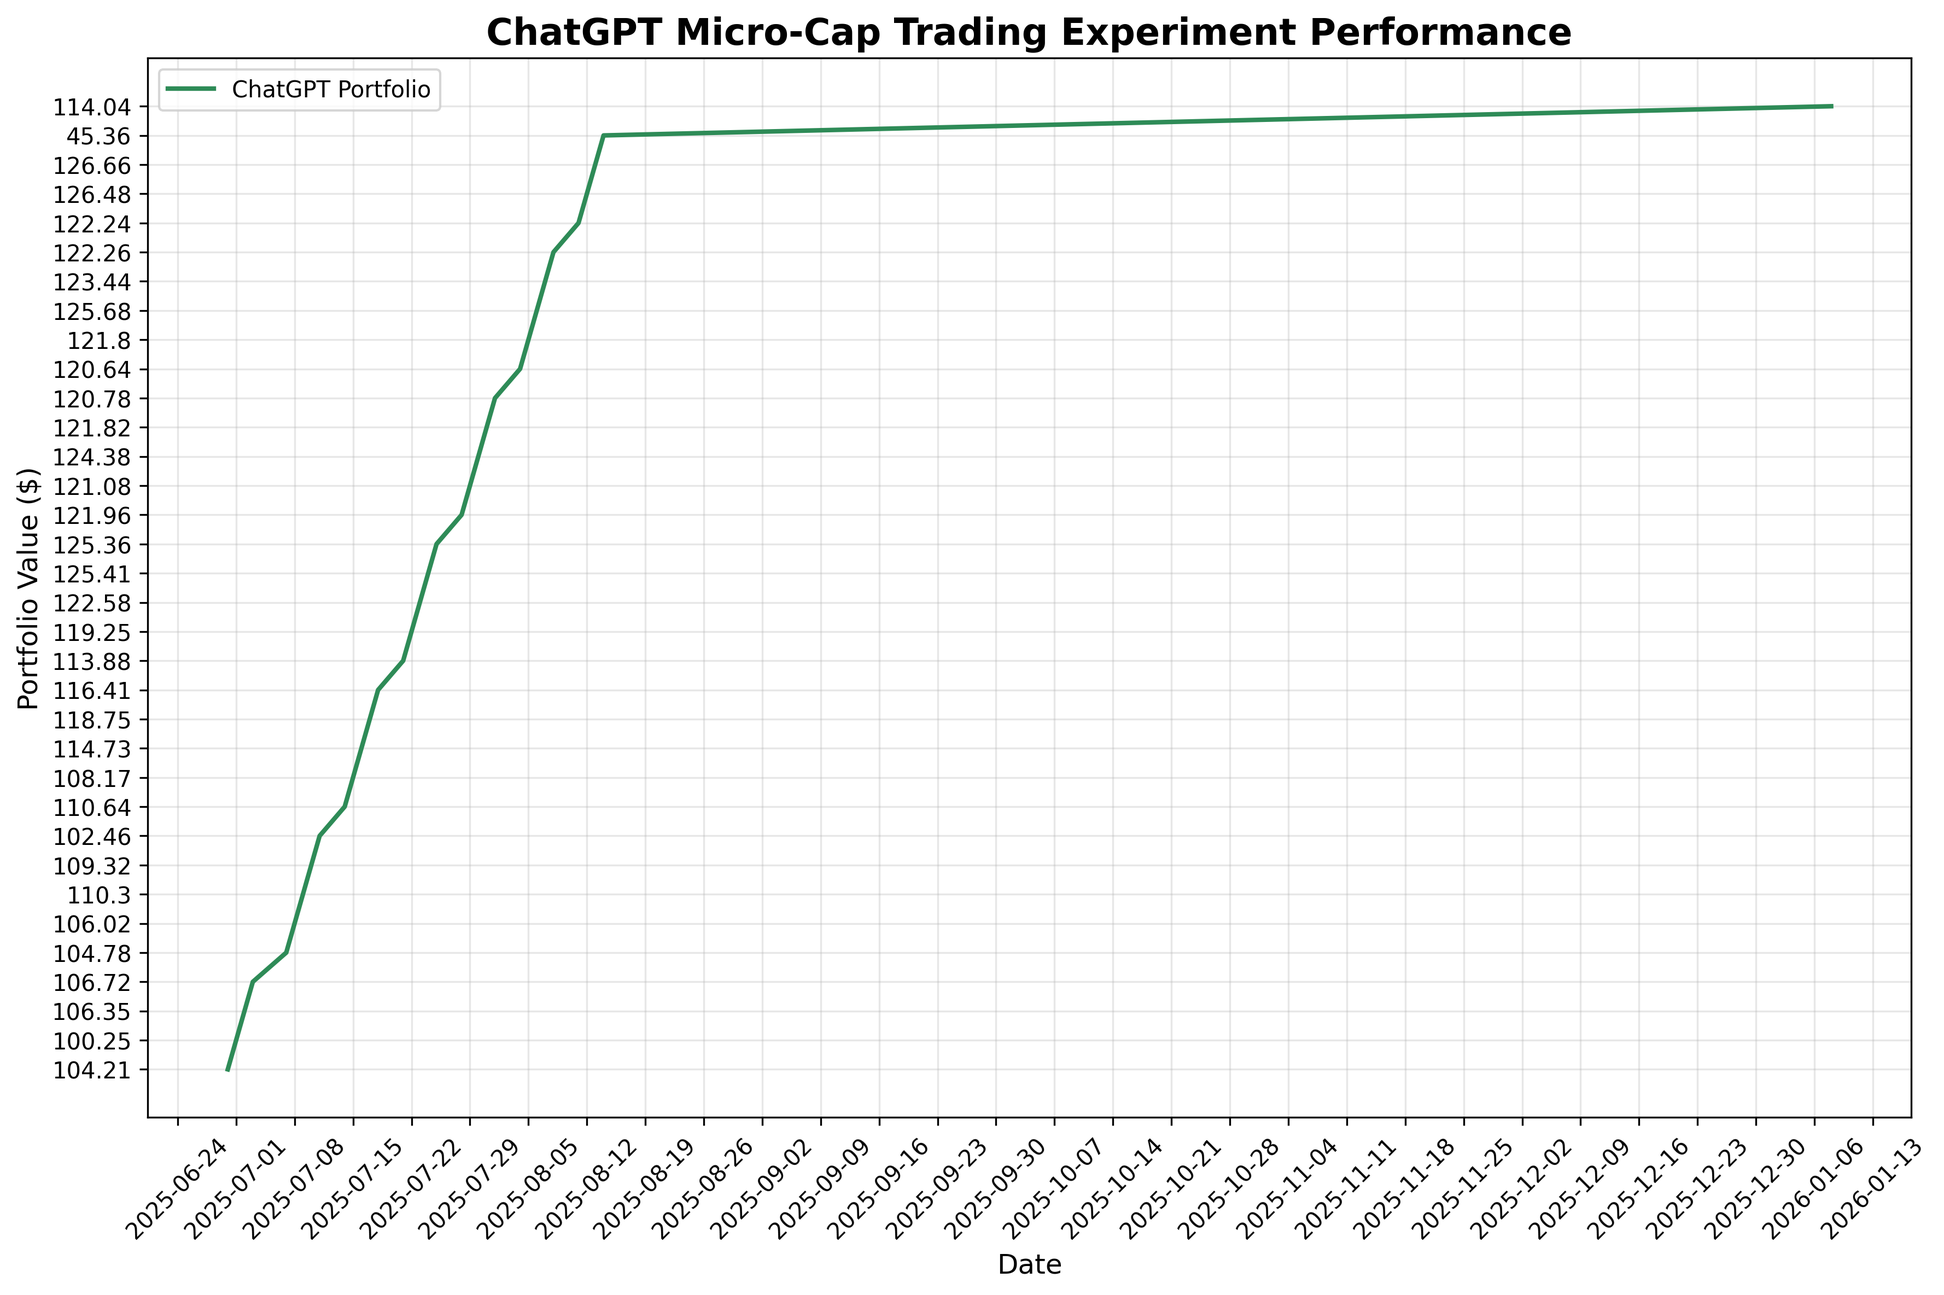
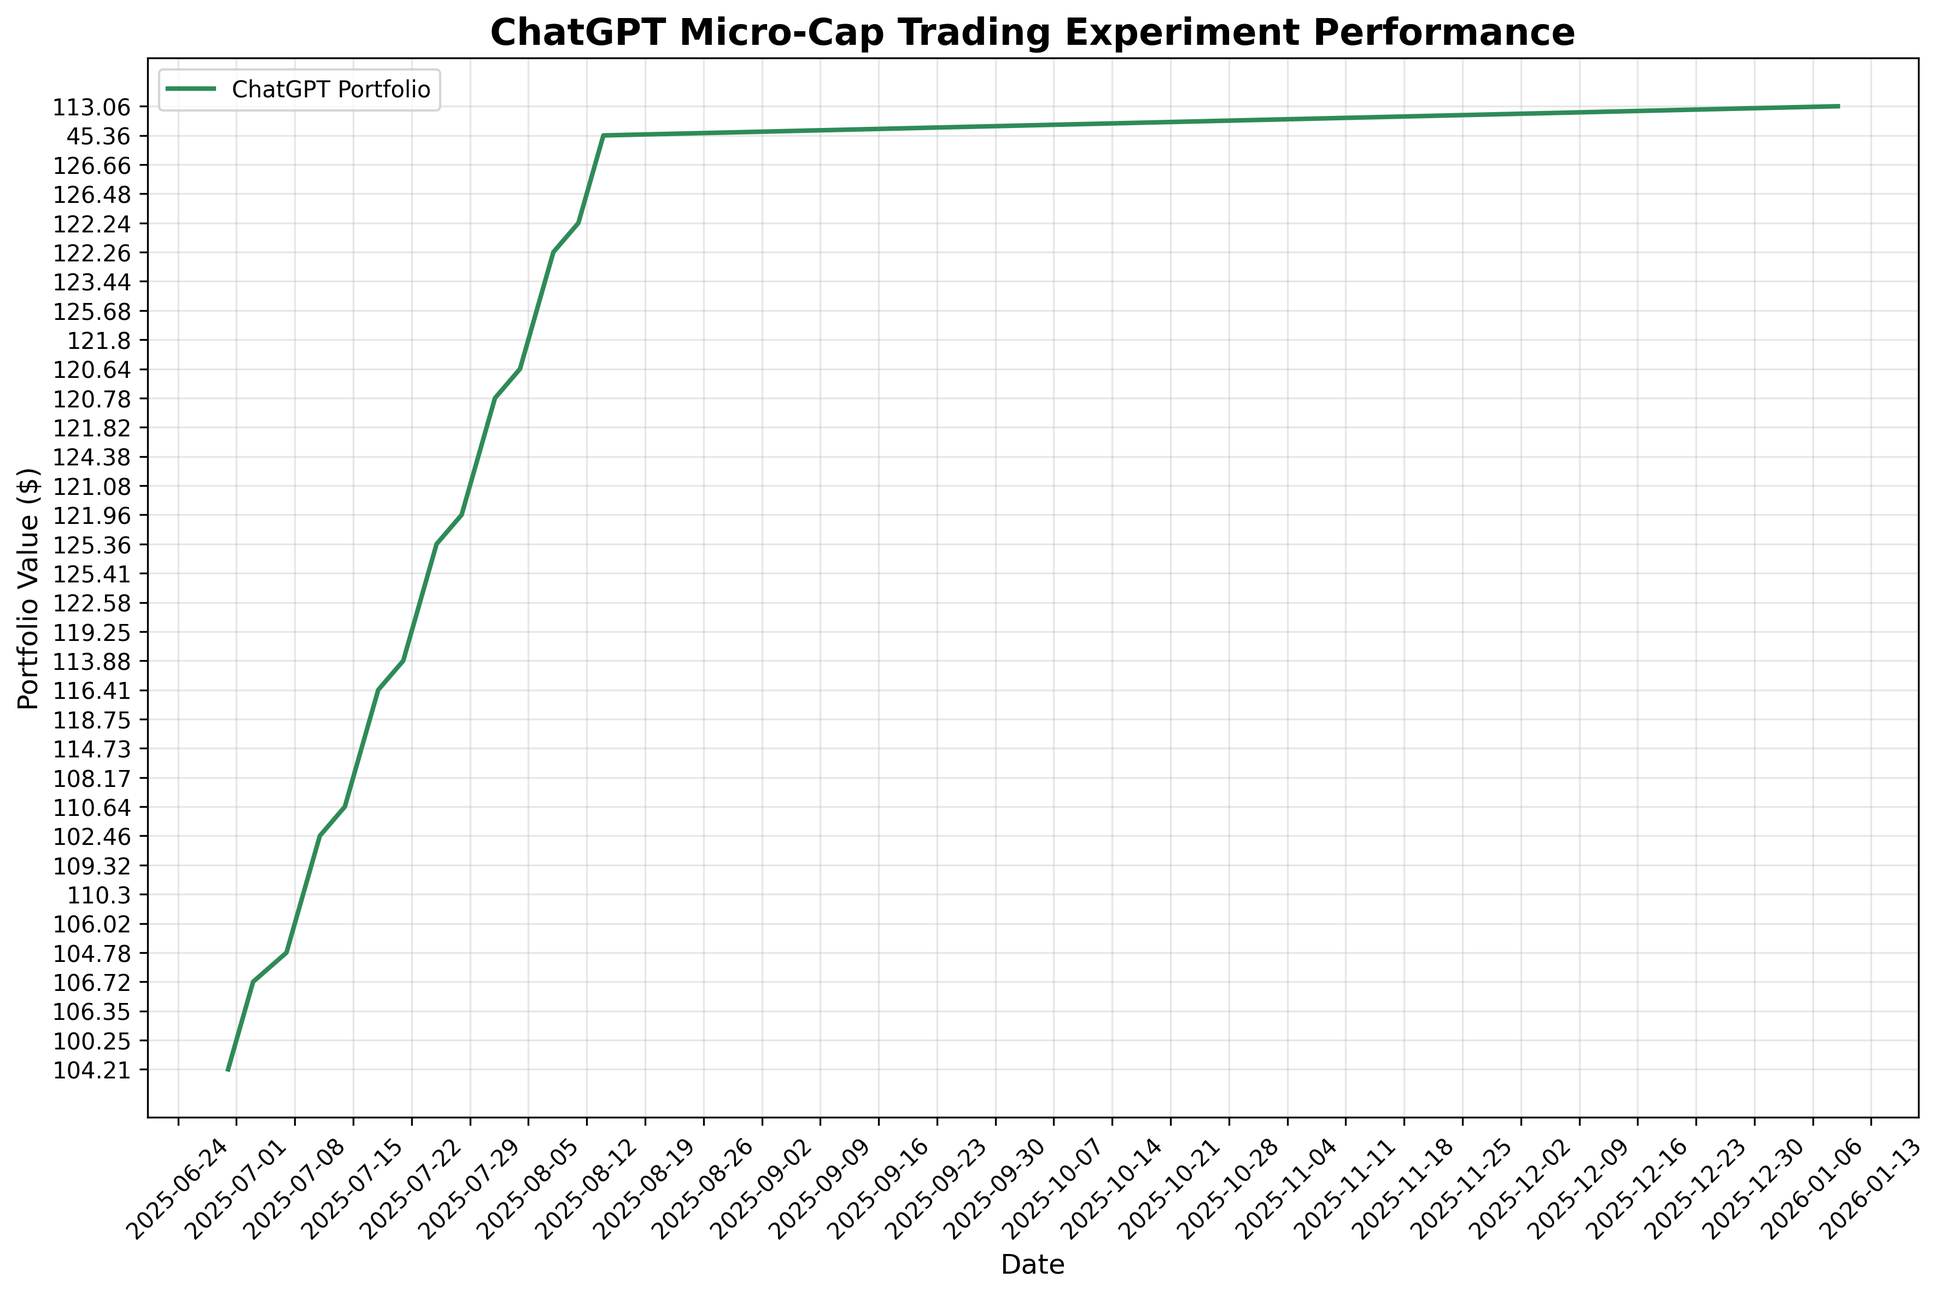
deploy: e15cad030d70fb3fbb51f9df6e22fa70c2f175c0

diff --git a/index.html b/index.html
@@ -105,7 +105,7 @@
                 <div class="stat-label">Total Trades</div>
             </div>
             <div class="stat-card">
-                <div class="stat-value" id="last-updated">2026-01-08</div>
+                <div class="stat-value" id="last-updated">2026-01-09</div>
                 <div class="stat-label">Last Updated</div>
             </div>
         </div>
@@ -160,7 +160,7 @@
     
     <script>
         // Portfolio data
-        const portfolioData = JSON.parse("[{&quot;Date&quot;: &quot;2025-08-11&quot;, &quot;Ticker&quot;: &quot;ABEO&quot;, &quot;Shares&quot;: 4.0, &quot;Buy Price&quot;: 5.77, &quot;Cost Basis&quot;: 23.08, &quot;Stop Loss&quot;: 4.9, &quot;Current Price&quot;: 6.28, &quot;Total Value&quot;: 25.12, &quot;PnL&quot;: 2.04, &quot;Action&quot;: &quot;HOLD&quot;, &quot;Cash Balance&quot;: NaN, &quot;Total Equity&quot;: NaN}, {&quot;Date&quot;: &quot;2025-08-11&quot;, &quot;Ticker&quot;: &quot;ACTU&quot;, &quot;Shares&quot;: 6.0, &quot;Buy Price&quot;: 5.75, &quot;Cost Basis&quot;: 34.5, &quot;Stop Loss&quot;: 4.89, &quot;Current Price&quot;: 8.01, &quot;Total Value&quot;: 48.06, &quot;PnL&quot;: 13.56, &quot;Action&quot;: &quot;HOLD&quot;, &quot;Cash Balance&quot;: NaN, &quot;Total Equity&quot;: NaN}, {&quot;Date&quot;: &quot;2025-08-11&quot;, &quot;Ticker&quot;: &quot;ESPR&quot;, &quot;Shares&quot;: 2.0, &quot;Buy Price&quot;: 1.91, &quot;Cost Basis&quot;: 3.82, &quot;Stop Loss&quot;: 1.6, &quot;Current Price&quot;: 1.85, &quot;Total Value&quot;: 3.7, &quot;PnL&quot;: -0.12, &quot;Action&quot;: &quot;HOLD&quot;, &quot;Cash Balance&quot;: NaN, &quot;Total Equity&quot;: NaN}, {&quot;Date&quot;: &quot;2025-08-11&quot;, &quot;Ticker&quot;: &quot;TOTAL&quot;, &quot;Shares&quot;: NaN, &quot;Buy Price&quot;: NaN, &quot;Cost Basis&quot;: NaN, &quot;Stop Loss&quot;: NaN, &quot;Current Price&quot;: NaN, &quot;Total Value&quot;: 76.88, &quot;PnL&quot;: 15.48, &quot;Action&quot;: NaN, &quot;Cash Balance&quot;: 45.36, &quot;Total Equity&quot;: &quot;122.24&quot;}, {&quot;Date&quot;: &quot;2025-08-12&quot;, &quot;Ticker&quot;: &quot;ABEO&quot;, &quot;Shares&quot;: 4.0, &quot;Buy Price&quot;: 5.77, &quot;Cost Basis&quot;: 23.08, &quot;Stop Loss&quot;: 4.9, &quot;Current Price&quot;: 6.38, &quot;Total Value&quot;: 25.52, &quot;PnL&quot;: 2.44, &quot;Action&quot;: &quot;HOLD&quot;, &quot;Cash Balance&quot;: NaN, &quot;Total Equity&quot;: NaN}, {&quot;Date&quot;: &quot;2025-08-12&quot;, &quot;Ticker&quot;: &quot;ACTU&quot;, &quot;Shares&quot;: 6.0, &quot;Buy Price&quot;: 5.75, &quot;Cost Basis&quot;: 34.5, &quot;Stop Loss&quot;: 4.89, &quot;Current Price&quot;: 8.67, &quot;Total Value&quot;: 52.02, &quot;PnL&quot;: 17.52, &quot;Action&quot;: &quot;HOLD&quot;, &quot;Cash Balance&quot;: NaN, &quot;Total Equity&quot;: NaN}, {&quot;Date&quot;: &quot;2025-08-12&quot;, &quot;Ticker&quot;: &quot;ESPR&quot;, &quot;Shares&quot;: 2.0, &quot;Buy Price&quot;: 1.91, &quot;Cost Basis&quot;: 3.82, &quot;Stop Loss&quot;: 1.6, &quot;Current Price&quot;: 1.79, &quot;Total Value&quot;: 3.58, &quot;PnL&quot;: -0.24, &quot;Action&quot;: &quot;HOLD&quot;, &quot;Cash Balance&quot;: NaN, &quot;Total Equity&quot;: NaN}, {&quot;Date&quot;: &quot;2025-08-12&quot;, &quot;Ticker&quot;: &quot;TOTAL&quot;, &quot;Shares&quot;: NaN, &quot;Buy Price&quot;: NaN, &quot;Cost Basis&quot;: NaN, &quot;Stop Loss&quot;: NaN, &quot;Current Price&quot;: NaN, &quot;Total Value&quot;: 81.12, &quot;PnL&quot;: 19.72, &quot;Action&quot;: NaN, &quot;Cash Balance&quot;: 45.36, &quot;Total Equity&quot;: &quot;126.48&quot;}, {&quot;Date&quot;: &quot;2025-08-13&quot;, &quot;Ticker&quot;: &quot;ABEO&quot;, &quot;Shares&quot;: 4.0, &quot;Buy Price&quot;: 5.77, &quot;Cost Basis&quot;: 23.08, &quot;Stop Loss&quot;: 4.9, &quot;Current Price&quot;: 6.56, &quot;Total Value&quot;: 26.24, &quot;PnL&quot;: 3.16, &quot;Action&quot;: &quot;HOLD&quot;, &quot;Cash Balance&quot;: NaN, &quot;Total Equity&quot;: NaN}, {&quot;Date&quot;: &quot;2025-08-13&quot;, &quot;Ticker&quot;: &quot;ACTU&quot;, &quot;Shares&quot;: 6.0, &quot;Buy Price&quot;: 5.75, &quot;Cost Basis&quot;: 34.5, &quot;Stop Loss&quot;: 4.89, &quot;Current Price&quot;: 8.53, &quot;Total Value&quot;: 51.18, &quot;PnL&quot;: 16.68, &quot;Action&quot;: &quot;HOLD&quot;, &quot;Cash Balance&quot;: NaN, &quot;Total Equity&quot;: NaN}, {&quot;Date&quot;: &quot;2025-08-13&quot;, &quot;Ticker&quot;: &quot;ESPR&quot;, &quot;Shares&quot;: 2.0, &quot;Buy Price&quot;: 1.91, &quot;Cost Basis&quot;: 3.82, &quot;Stop Loss&quot;: 1.6, &quot;Current Price&quot;: 1.94, &quot;Total Value&quot;: 3.88, &quot;PnL&quot;: 0.06, &quot;Action&quot;: &quot;HOLD&quot;, &quot;Cash Balance&quot;: NaN, &quot;Total Equity&quot;: NaN}, {&quot;Date&quot;: &quot;2025-08-13&quot;, &quot;Ticker&quot;: &quot;TOTAL&quot;, &quot;Shares&quot;: NaN, &quot;Buy Price&quot;: NaN, &quot;Cost Basis&quot;: NaN, &quot;Stop Loss&quot;: NaN, &quot;Current Price&quot;: NaN, &quot;Total Value&quot;: 81.3, &quot;PnL&quot;: 19.9, &quot;Action&quot;: NaN, &quot;Cash Balance&quot;: 45.36, &quot;Total Equity&quot;: &quot;126.66&quot;}, {&quot;Date&quot;: &quot;2025-08-14&quot;, &quot;Ticker&quot;: &quot;ABEO&quot;, &quot;Shares&quot;: 4.0, &quot;Buy Price&quot;: 5.77, &quot;Cost Basis&quot;: 23.08, &quot;Stop Loss&quot;: 4.9, &quot;Current Price&quot;: NaN, &quot;Total Value&quot;: NaN, &quot;PnL&quot;: NaN, &quot;Action&quot;: &quot;NO DATA&quot;, &quot;Cash Balance&quot;: NaN, &quot;Total Equity&quot;: NaN}, {&quot;Date&quot;: &quot;2025-08-14&quot;, &quot;Ticker&quot;: &quot;ACTU&quot;, &quot;Shares&quot;: 6.0, &quot;Buy Price&quot;: 5.75, &quot;Cost Basis&quot;: 34.5, &quot;Stop Loss&quot;: 4.89, &quot;Current Price&quot;: NaN, &quot;Total Value&quot;: NaN, &quot;PnL&quot;: NaN, &quot;Action&quot;: &quot;NO DATA&quot;, &quot;Cash Balance&quot;: NaN, &quot;Total Equity&quot;: NaN}, {&quot;Date&quot;: &quot;2025-08-14&quot;, &quot;Ticker&quot;: &quot;ESPR&quot;, &quot;Shares&quot;: 2.0, &quot;Buy Price&quot;: 1.91, &quot;Cost Basis&quot;: 3.82, &quot;Stop Loss&quot;: 1.6, &quot;Current Price&quot;: NaN, &quot;Total Value&quot;: NaN, &quot;PnL&quot;: NaN, &quot;Action&quot;: &quot;NO DATA&quot;, &quot;Cash Balance&quot;: NaN, &quot;Total Equity&quot;: NaN}, {&quot;Date&quot;: &quot;2025-08-14&quot;, &quot;Ticker&quot;: &quot;TOTAL&quot;, &quot;Shares&quot;: NaN, &quot;Buy Price&quot;: NaN, &quot;Cost Basis&quot;: NaN, &quot;Stop Loss&quot;: NaN, &quot;Current Price&quot;: NaN, &quot;Total Value&quot;: 0.0, &quot;PnL&quot;: 0.0, &quot;Action&quot;: NaN, &quot;Cash Balance&quot;: 45.36, &quot;Total Equity&quot;: &quot;45.36&quot;}, {&quot;Date&quot;: &quot;2026-01-08&quot;, &quot;Ticker&quot;: &quot;ABEO&quot;, &quot;Shares&quot;: 4.0, &quot;Buy Price&quot;: 5.77, &quot;Cost Basis&quot;: 23.08, &quot;Stop Loss&quot;: 4.9, &quot;Current Price&quot;: 5.13, &quot;Total Value&quot;: 20.52, &quot;PnL&quot;: -2.56, &quot;Action&quot;: &quot;HOLD&quot;, &quot;Cash Balance&quot;: NaN, &quot;Total Equity&quot;: NaN}, {&quot;Date&quot;: &quot;2026-01-08&quot;, &quot;Ticker&quot;: &quot;ACTU&quot;, &quot;Shares&quot;: 6.0, &quot;Buy Price&quot;: 5.75, &quot;Cost Basis&quot;: 34.5, &quot;Stop Loss&quot;: 4.89, &quot;Current Price&quot;: 6.72, &quot;Total Value&quot;: 40.32, &quot;PnL&quot;: 5.82, &quot;Action&quot;: &quot;HOLD&quot;, &quot;Cash Balance&quot;: NaN, &quot;Total Equity&quot;: NaN}, {&quot;Date&quot;: &quot;2026-01-08&quot;, &quot;Ticker&quot;: &quot;ESPR&quot;, &quot;Shares&quot;: 2.0, &quot;Buy Price&quot;: 1.91, &quot;Cost Basis&quot;: 3.82, &quot;Stop Loss&quot;: 1.6, &quot;Current Price&quot;: 3.92, &quot;Total Value&quot;: 7.84, &quot;PnL&quot;: 4.02, &quot;Action&quot;: &quot;HOLD&quot;, &quot;Cash Balance&quot;: NaN, &quot;Total Equity&quot;: NaN}, {&quot;Date&quot;: &quot;2026-01-08&quot;, &quot;Ticker&quot;: &quot;TOTAL&quot;, &quot;Shares&quot;: NaN, &quot;Buy Price&quot;: NaN, &quot;Cost Basis&quot;: NaN, &quot;Stop Loss&quot;: NaN, &quot;Current Price&quot;: NaN, &quot;Total Value&quot;: 68.68, &quot;PnL&quot;: 7.28, &quot;Action&quot;: NaN, &quot;Cash Balance&quot;: 45.36, &quot;Total Equity&quot;: &quot;114.04&quot;}]");
+        const portfolioData = JSON.parse("[{&quot;Date&quot;: &quot;2025-08-11&quot;, &quot;Ticker&quot;: &quot;ABEO&quot;, &quot;Shares&quot;: 4.0, &quot;Buy Price&quot;: 5.77, &quot;Cost Basis&quot;: 23.08, &quot;Stop Loss&quot;: 4.9, &quot;Current Price&quot;: 6.28, &quot;Total Value&quot;: 25.12, &quot;PnL&quot;: 2.04, &quot;Action&quot;: &quot;HOLD&quot;, &quot;Cash Balance&quot;: NaN, &quot;Total Equity&quot;: NaN}, {&quot;Date&quot;: &quot;2025-08-11&quot;, &quot;Ticker&quot;: &quot;ACTU&quot;, &quot;Shares&quot;: 6.0, &quot;Buy Price&quot;: 5.75, &quot;Cost Basis&quot;: 34.5, &quot;Stop Loss&quot;: 4.89, &quot;Current Price&quot;: 8.01, &quot;Total Value&quot;: 48.06, &quot;PnL&quot;: 13.56, &quot;Action&quot;: &quot;HOLD&quot;, &quot;Cash Balance&quot;: NaN, &quot;Total Equity&quot;: NaN}, {&quot;Date&quot;: &quot;2025-08-11&quot;, &quot;Ticker&quot;: &quot;ESPR&quot;, &quot;Shares&quot;: 2.0, &quot;Buy Price&quot;: 1.91, &quot;Cost Basis&quot;: 3.82, &quot;Stop Loss&quot;: 1.6, &quot;Current Price&quot;: 1.85, &quot;Total Value&quot;: 3.7, &quot;PnL&quot;: -0.12, &quot;Action&quot;: &quot;HOLD&quot;, &quot;Cash Balance&quot;: NaN, &quot;Total Equity&quot;: NaN}, {&quot;Date&quot;: &quot;2025-08-11&quot;, &quot;Ticker&quot;: &quot;TOTAL&quot;, &quot;Shares&quot;: NaN, &quot;Buy Price&quot;: NaN, &quot;Cost Basis&quot;: NaN, &quot;Stop Loss&quot;: NaN, &quot;Current Price&quot;: NaN, &quot;Total Value&quot;: 76.88, &quot;PnL&quot;: 15.48, &quot;Action&quot;: NaN, &quot;Cash Balance&quot;: 45.36, &quot;Total Equity&quot;: &quot;122.24&quot;}, {&quot;Date&quot;: &quot;2025-08-12&quot;, &quot;Ticker&quot;: &quot;ABEO&quot;, &quot;Shares&quot;: 4.0, &quot;Buy Price&quot;: 5.77, &quot;Cost Basis&quot;: 23.08, &quot;Stop Loss&quot;: 4.9, &quot;Current Price&quot;: 6.38, &quot;Total Value&quot;: 25.52, &quot;PnL&quot;: 2.44, &quot;Action&quot;: &quot;HOLD&quot;, &quot;Cash Balance&quot;: NaN, &quot;Total Equity&quot;: NaN}, {&quot;Date&quot;: &quot;2025-08-12&quot;, &quot;Ticker&quot;: &quot;ACTU&quot;, &quot;Shares&quot;: 6.0, &quot;Buy Price&quot;: 5.75, &quot;Cost Basis&quot;: 34.5, &quot;Stop Loss&quot;: 4.89, &quot;Current Price&quot;: 8.67, &quot;Total Value&quot;: 52.02, &quot;PnL&quot;: 17.52, &quot;Action&quot;: &quot;HOLD&quot;, &quot;Cash Balance&quot;: NaN, &quot;Total Equity&quot;: NaN}, {&quot;Date&quot;: &quot;2025-08-12&quot;, &quot;Ticker&quot;: &quot;ESPR&quot;, &quot;Shares&quot;: 2.0, &quot;Buy Price&quot;: 1.91, &quot;Cost Basis&quot;: 3.82, &quot;Stop Loss&quot;: 1.6, &quot;Current Price&quot;: 1.79, &quot;Total Value&quot;: 3.58, &quot;PnL&quot;: -0.24, &quot;Action&quot;: &quot;HOLD&quot;, &quot;Cash Balance&quot;: NaN, &quot;Total Equity&quot;: NaN}, {&quot;Date&quot;: &quot;2025-08-12&quot;, &quot;Ticker&quot;: &quot;TOTAL&quot;, &quot;Shares&quot;: NaN, &quot;Buy Price&quot;: NaN, &quot;Cost Basis&quot;: NaN, &quot;Stop Loss&quot;: NaN, &quot;Current Price&quot;: NaN, &quot;Total Value&quot;: 81.12, &quot;PnL&quot;: 19.72, &quot;Action&quot;: NaN, &quot;Cash Balance&quot;: 45.36, &quot;Total Equity&quot;: &quot;126.48&quot;}, {&quot;Date&quot;: &quot;2025-08-13&quot;, &quot;Ticker&quot;: &quot;ABEO&quot;, &quot;Shares&quot;: 4.0, &quot;Buy Price&quot;: 5.77, &quot;Cost Basis&quot;: 23.08, &quot;Stop Loss&quot;: 4.9, &quot;Current Price&quot;: 6.56, &quot;Total Value&quot;: 26.24, &quot;PnL&quot;: 3.16, &quot;Action&quot;: &quot;HOLD&quot;, &quot;Cash Balance&quot;: NaN, &quot;Total Equity&quot;: NaN}, {&quot;Date&quot;: &quot;2025-08-13&quot;, &quot;Ticker&quot;: &quot;ACTU&quot;, &quot;Shares&quot;: 6.0, &quot;Buy Price&quot;: 5.75, &quot;Cost Basis&quot;: 34.5, &quot;Stop Loss&quot;: 4.89, &quot;Current Price&quot;: 8.53, &quot;Total Value&quot;: 51.18, &quot;PnL&quot;: 16.68, &quot;Action&quot;: &quot;HOLD&quot;, &quot;Cash Balance&quot;: NaN, &quot;Total Equity&quot;: NaN}, {&quot;Date&quot;: &quot;2025-08-13&quot;, &quot;Ticker&quot;: &quot;ESPR&quot;, &quot;Shares&quot;: 2.0, &quot;Buy Price&quot;: 1.91, &quot;Cost Basis&quot;: 3.82, &quot;Stop Loss&quot;: 1.6, &quot;Current Price&quot;: 1.94, &quot;Total Value&quot;: 3.88, &quot;PnL&quot;: 0.06, &quot;Action&quot;: &quot;HOLD&quot;, &quot;Cash Balance&quot;: NaN, &quot;Total Equity&quot;: NaN}, {&quot;Date&quot;: &quot;2025-08-13&quot;, &quot;Ticker&quot;: &quot;TOTAL&quot;, &quot;Shares&quot;: NaN, &quot;Buy Price&quot;: NaN, &quot;Cost Basis&quot;: NaN, &quot;Stop Loss&quot;: NaN, &quot;Current Price&quot;: NaN, &quot;Total Value&quot;: 81.3, &quot;PnL&quot;: 19.9, &quot;Action&quot;: NaN, &quot;Cash Balance&quot;: 45.36, &quot;Total Equity&quot;: &quot;126.66&quot;}, {&quot;Date&quot;: &quot;2025-08-14&quot;, &quot;Ticker&quot;: &quot;ABEO&quot;, &quot;Shares&quot;: 4.0, &quot;Buy Price&quot;: 5.77, &quot;Cost Basis&quot;: 23.08, &quot;Stop Loss&quot;: 4.9, &quot;Current Price&quot;: NaN, &quot;Total Value&quot;: NaN, &quot;PnL&quot;: NaN, &quot;Action&quot;: &quot;NO DATA&quot;, &quot;Cash Balance&quot;: NaN, &quot;Total Equity&quot;: NaN}, {&quot;Date&quot;: &quot;2025-08-14&quot;, &quot;Ticker&quot;: &quot;ACTU&quot;, &quot;Shares&quot;: 6.0, &quot;Buy Price&quot;: 5.75, &quot;Cost Basis&quot;: 34.5, &quot;Stop Loss&quot;: 4.89, &quot;Current Price&quot;: NaN, &quot;Total Value&quot;: NaN, &quot;PnL&quot;: NaN, &quot;Action&quot;: &quot;NO DATA&quot;, &quot;Cash Balance&quot;: NaN, &quot;Total Equity&quot;: NaN}, {&quot;Date&quot;: &quot;2025-08-14&quot;, &quot;Ticker&quot;: &quot;ESPR&quot;, &quot;Shares&quot;: 2.0, &quot;Buy Price&quot;: 1.91, &quot;Cost Basis&quot;: 3.82, &quot;Stop Loss&quot;: 1.6, &quot;Current Price&quot;: NaN, &quot;Total Value&quot;: NaN, &quot;PnL&quot;: NaN, &quot;Action&quot;: &quot;NO DATA&quot;, &quot;Cash Balance&quot;: NaN, &quot;Total Equity&quot;: NaN}, {&quot;Date&quot;: &quot;2025-08-14&quot;, &quot;Ticker&quot;: &quot;TOTAL&quot;, &quot;Shares&quot;: NaN, &quot;Buy Price&quot;: NaN, &quot;Cost Basis&quot;: NaN, &quot;Stop Loss&quot;: NaN, &quot;Current Price&quot;: NaN, &quot;Total Value&quot;: 0.0, &quot;PnL&quot;: 0.0, &quot;Action&quot;: NaN, &quot;Cash Balance&quot;: 45.36, &quot;Total Equity&quot;: &quot;45.36&quot;}, {&quot;Date&quot;: &quot;2026-01-09&quot;, &quot;Ticker&quot;: &quot;ABEO&quot;, &quot;Shares&quot;: 4.0, &quot;Buy Price&quot;: 5.77, &quot;Cost Basis&quot;: 23.08, &quot;Stop Loss&quot;: 4.9, &quot;Current Price&quot;: 5.21, &quot;Total Value&quot;: 20.84, &quot;PnL&quot;: -2.24, &quot;Action&quot;: &quot;HOLD&quot;, &quot;Cash Balance&quot;: NaN, &quot;Total Equity&quot;: NaN}, {&quot;Date&quot;: &quot;2026-01-09&quot;, &quot;Ticker&quot;: &quot;ACTU&quot;, &quot;Shares&quot;: 6.0, &quot;Buy Price&quot;: 5.75, &quot;Cost Basis&quot;: 34.5, &quot;Stop Loss&quot;: 4.89, &quot;Current Price&quot;: 6.5, &quot;Total Value&quot;: 39.0, &quot;PnL&quot;: 4.5, &quot;Action&quot;: &quot;HOLD&quot;, &quot;Cash Balance&quot;: NaN, &quot;Total Equity&quot;: NaN}, {&quot;Date&quot;: &quot;2026-01-09&quot;, &quot;Ticker&quot;: &quot;ESPR&quot;, &quot;Shares&quot;: 2.0, &quot;Buy Price&quot;: 1.91, &quot;Cost Basis&quot;: 3.82, &quot;Stop Loss&quot;: 1.6, &quot;Current Price&quot;: 3.93, &quot;Total Value&quot;: 7.86, &quot;PnL&quot;: 4.04, &quot;Action&quot;: &quot;HOLD&quot;, &quot;Cash Balance&quot;: NaN, &quot;Total Equity&quot;: NaN}, {&quot;Date&quot;: &quot;2026-01-09&quot;, &quot;Ticker&quot;: &quot;TOTAL&quot;, &quot;Shares&quot;: NaN, &quot;Buy Price&quot;: NaN, &quot;Cost Basis&quot;: NaN, &quot;Stop Loss&quot;: NaN, &quot;Current Price&quot;: NaN, &quot;Total Value&quot;: 67.7, &quot;PnL&quot;: 6.3, &quot;Action&quot;: NaN, &quot;Cash Balance&quot;: 45.36, &quot;Total Equity&quot;: &quot;113.06&quot;}]");
         const tradeData = JSON.parse("[{&quot;Date&quot;: &quot;2025-07-07&quot;, &quot;Ticker&quot;: &quot;CSAI&quot;, &quot;Shares Bought&quot;: NaN, &quot;Buy Price&quot;: NaN, &quot;Cost Basis&quot;: 1.9, &quot;PnL&quot;: 5.7, &quot;Reason&quot;: &quot;MANUAL SELL - Rotated into AZTR&quot;, &quot;Shares Sold&quot;: 15.0, &quot;Sell Price&quot;: 2.28}, {&quot;Date&quot;: &quot;2025-07-08&quot;, &quot;Ticker&quot;: &quot;IINN&quot;, &quot;Shares Bought&quot;: 20.0, &quot;Buy Price&quot;: 1.5, &quot;Cost Basis&quot;: 30.0, &quot;PnL&quot;: 0.0, &quot;Reason&quot;: &quot;MANUAL BUY - New position&quot;, &quot;Shares Sold&quot;: NaN, &quot;Sell Price&quot;: NaN}, {&quot;Date&quot;: &quot;2025-07-21&quot;, &quot;Ticker&quot;: &quot;CADL&quot;, &quot;Shares Bought&quot;: NaN, &quot;Buy Price&quot;: NaN, &quot;Cost Basis&quot;: 25.2, &quot;PnL&quot;: 8.5, &quot;Reason&quot;: &quot;MANUAL SELL - GAIN CAPITAL FOR ACTU&quot;, &quot;Shares Sold&quot;: 5.0, &quot;Sell Price&quot;: 6.59}, {&quot;Date&quot;: &quot;2025-07-21&quot;, &quot;Ticker&quot;: &quot;ACTU&quot;, &quot;Shares Bought&quot;: 6.0, &quot;Buy Price&quot;: 5.75, &quot;Cost Basis&quot;: 34.5, &quot;PnL&quot;: 0.0, &quot;Reason&quot;: &quot;MANUAL BUY - New position&quot;, &quot;Shares Sold&quot;: NaN, &quot;Sell Price&quot;: NaN}, {&quot;Date&quot;: &quot;2025-07-28&quot;, &quot;Ticker&quot;: &quot;IINN&quot;, &quot;Shares Bought&quot;: NaN, &quot;Buy Price&quot;: NaN, &quot;Cost Basis&quot;: 9.0, &quot;PnL&quot;: -0.5400000000000009, &quot;Reason&quot;: &quot;MANUAL SELL - POSITION REDUCTION&quot;, &quot;Shares Sold&quot;: 6.0, &quot;Sell Price&quot;: 1.41}, {&quot;Date&quot;: &quot;2025-07-29&quot;, &quot;Ticker&quot;: &quot;AZTR&quot;, &quot;Shares Bought&quot;: NaN, &quot;Buy Price&quot;: NaN, &quot;Cost Basis&quot;: 13.75, &quot;PnL&quot;: -2.75, &quot;Reason&quot;: &quot;MANUAL SELL - DILUTION RISK&quot;, &quot;Shares Sold&quot;: 55.0, &quot;Sell Price&quot;: 0.2}, {&quot;Date&quot;: &quot;2025-08-01&quot;, &quot;Ticker&quot;: &quot;IINN&quot;, &quot;Shares Bought&quot;: 2.0, &quot;Buy Price&quot;: 1.74, &quot;Cost Basis&quot;: 3.48, &quot;PnL&quot;: 0.0, &quot;Reason&quot;: &quot;MANUAL BUY - New position&quot;, &quot;Shares Sold&quot;: NaN, &quot;Sell Price&quot;: NaN}, {&quot;Date&quot;: &quot;2025-08-01&quot;, &quot;Ticker&quot;: &quot;ABEO&quot;, &quot;Shares Bought&quot;: NaN, &quot;Buy Price&quot;: NaN, &quot;Cost Basis&quot;: 11.54, &quot;PnL&quot;: 1.200000000000001, &quot;Reason&quot;: &quot;MANUAL SELL - TRIM AFTER SUPPORT LOSS&quot;, &quot;Shares Sold&quot;: 2.0, &quot;Sell Price&quot;: 6.37}, {&quot;Date&quot;: &quot;2025-08-07&quot;, &quot;Ticker&quot;: &quot;ESPR&quot;, &quot;Shares Bought&quot;: 2.0, &quot;Buy Price&quot;: 1.91, &quot;Cost Basis&quot;: 3.82, &quot;PnL&quot;: 0.0, &quot;Reason&quot;: &quot;MANUAL BUY - New position&quot;, &quot;Shares Sold&quot;: NaN, &quot;Sell Price&quot;: NaN}, {&quot;Date&quot;: &quot;2025-08-08&quot;, &quot;Ticker&quot;: &quot;IINN&quot;, &quot;Shares Bought&quot;: NaN, &quot;Buy Price&quot;: NaN, &quot;Cost Basis&quot;: 1.5, &quot;PnL&quot;: -6.4, &quot;Reason&quot;: &quot;AUTOMATED SELL - STOPLOSS TRIGGERED&quot;, &quot;Shares Sold&quot;: 16.0, &quot;Sell Price&quot;: 1.1}]");
         
         // Update total equity
